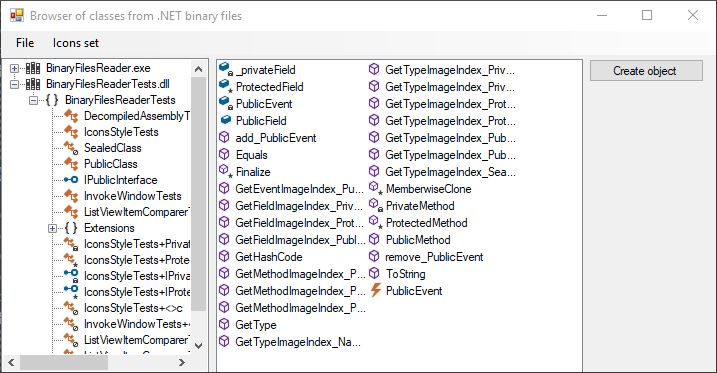
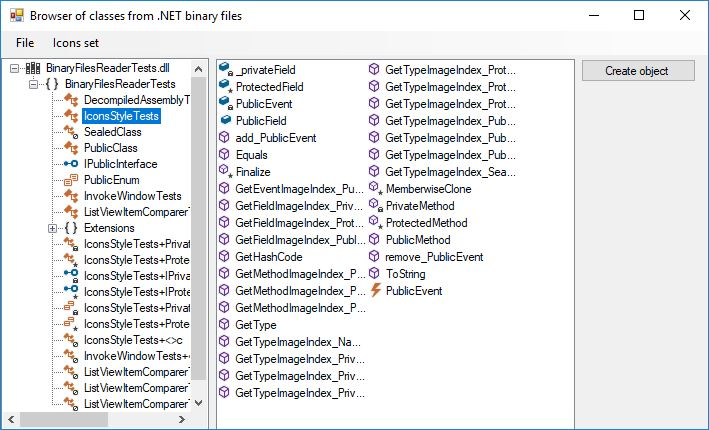
Added support for enums

Changed region(s): [[0.0, 0.0, 1.0, 1.0]]

diff --git a/BinaryFilesReader/Properties/Resources.Designer.cs b/BinaryFilesReader/Properties/Resources.Designer.cs
@@ -351,16 +351,6 @@ namespace BinaryFilesReader.Properties {
         /// <summary>
         ///   Looks up a localized resource of type System.Drawing.Bitmap.
         /// </summary>
-        internal static System.Drawing.Bitmap Enum_Sealed_583 {
-            get {
-                object obj = ResourceManager.GetObject("Enum_Sealed_583", resourceCulture);
-                return ((System.Drawing.Bitmap)(obj));
-            }
-        }
-        
-        /// <summary>
-        ///   Looks up a localized resource of type System.Drawing.Bitmap.
-        /// </summary>
         internal static System.Drawing.Bitmap Enumerator_16x {
             get {
                 object obj = ResourceManager.GetObject("Enumerator_16x", resourceCulture);
@@ -384,16 +374,6 @@ namespace BinaryFilesReader.Properties {
         internal static System.Drawing.Bitmap EnumProtect_16x {
             get {
                 object obj = ResourceManager.GetObject("EnumProtect_16x", resourceCulture);
-                return ((System.Drawing.Bitmap)(obj));
-            }
-        }
-        
-        /// <summary>
-        ///   Looks up a localized resource of type System.Drawing.Bitmap.
-        /// </summary>
-        internal static System.Drawing.Bitmap EnumSealed_16x {
-            get {
-                object obj = ResourceManager.GetObject("EnumSealed_16x", resourceCulture);
                 return ((System.Drawing.Bitmap)(obj));
             }
         }

diff --git a/BinaryFilesReaderTests/IconsStyleTests.cs b/BinaryFilesReaderTests/IconsStyleTests.cs
@@ -145,6 +145,36 @@ namespace BinaryFilesReaderTests
 			Assert.AreEqual(15, iconIndex);
 		}
 
+		[Test]
+		public void GetTypeImageIndex_PublicEnum_16()
+		{
+			var type = Assembly.GetExecutingAssembly().GetTypes().SingleOrDefault(t => t.Name == nameof(PublicEnum));
+
+			var iconIndex = IconsStyle.GetTypeImageIndex(type);
+
+			Assert.AreEqual(16, iconIndex);
+		}
+
+		[Test]
+		public void GetTypeImageIndex_PrivateEnum_17()
+		{
+			var type = Assembly.GetExecutingAssembly().GetTypes().SingleOrDefault(t => t.Name == nameof(PrivateEnum));
+
+			var iconIndex = IconsStyle.GetTypeImageIndex(type);
+
+			Assert.AreEqual(17, iconIndex);
+		}
+
+		[Test]
+		public void GetTypeImageIndex_ProtectedEnum_18()
+		{
+			var type = Assembly.GetExecutingAssembly().GetTypes().SingleOrDefault(t => t.Name == nameof(ProtectedEnum));
+
+			var iconIndex = IconsStyle.GetTypeImageIndex(type);
+
+			Assert.AreEqual(18, iconIndex);
+		}
+
 		private class PrivateClass { }
 
 		protected class ProtectedClass { }
@@ -166,6 +196,10 @@ namespace BinaryFilesReaderTests
 		public int PublicField;
 
 		public event EventHandler PublicEvent;
+
+		private enum PrivateEnum { }
+
+		protected enum ProtectedEnum { }
 	}
 
 	public sealed class SealedClass { }
@@ -173,4 +207,6 @@ namespace BinaryFilesReaderTests
 	public class PublicClass { }
 
 	public interface IPublicInterface { }
+
+	public enum PublicEnum { }
 }

diff --git a/BinaryFilesReader/IconsStyle.cs b/BinaryFilesReader/IconsStyle.cs
@@ -35,6 +35,9 @@ namespace BinaryFilesReader
 			Icons2017.Images.Add(Properties.Resources.FieldPrivate_16x);
 			Icons2017.Images.Add(Properties.Resources.FieldProtect_16x);
 			Icons2017.Images.Add(Properties.Resources.Event_16x);
+			Icons2017.Images.Add(Properties.Resources.Enumerator_16x);
+			Icons2017.Images.Add(Properties.Resources.EnumPrivate_16x);
+			Icons2017.Images.Add(Properties.Resources.EnumProtect_16x);
 
 			Icons2012 = new ImageList();
 			Icons2012.Images.Add(Properties.Resources.Library_6213);
@@ -53,6 +56,9 @@ namespace BinaryFilesReader
 			Icons2012.Images.Add(Properties.Resources.Field_Private_545);
 			Icons2012.Images.Add(Properties.Resources.Field_Protected_544);
 			Icons2012.Images.Add(Properties.Resources.Event_594);
+			Icons2012.Images.Add(Properties.Resources.Enum_582);
+			Icons2012.Images.Add(Properties.Resources.Enum_Private_586);
+			Icons2012.Images.Add(Properties.Resources.Enum_Protected_585);
 		}
 
 		/// <summary>
@@ -81,6 +87,14 @@ namespace BinaryFilesReader
 					if (type.IsNestedFamily)
 						return 7;
 					return 6;
+				}
+				if (type.IsEnum)
+				{
+					if (type.IsPublic)
+						return 16;
+					if (type.IsNestedFamily)
+						return 18;
+					return 17;
 				}
 			}
 			else

diff --git a/README.md b/README.md
@@ -9,6 +9,7 @@ The list on the left contains a tree structure of files that were opened. It lis
 * namespaces
 * classes
 * interfaces
+* enums
 
 The list on the right appears after choosing a certain class or interface. It lists objects that are defined in the chosen type such as:
 * fields
